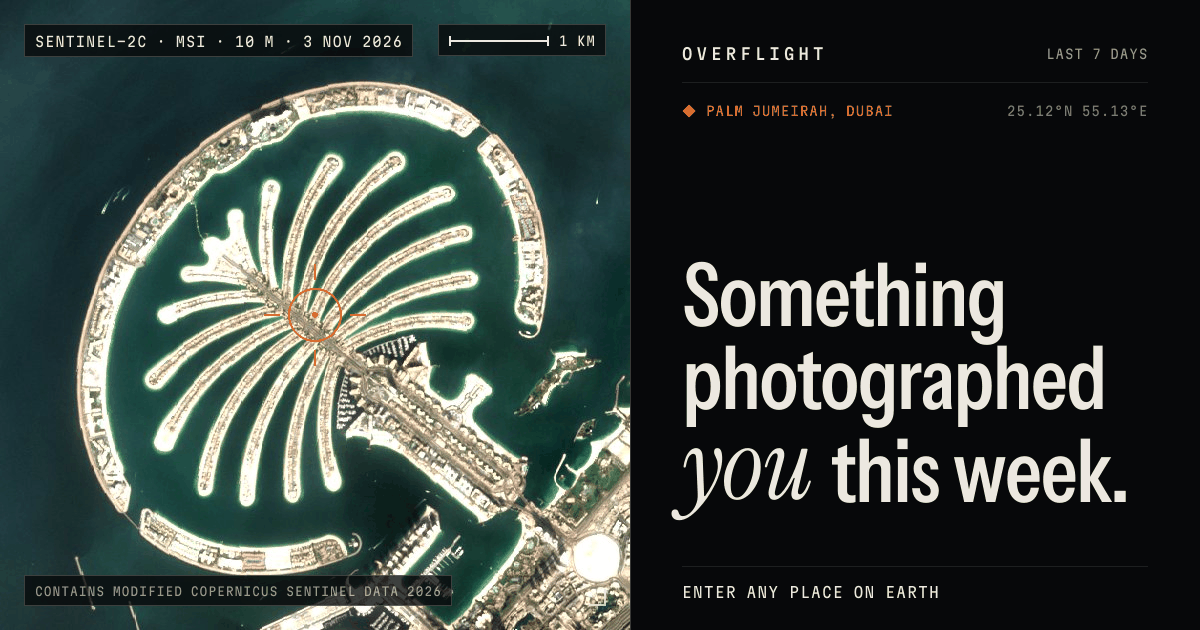
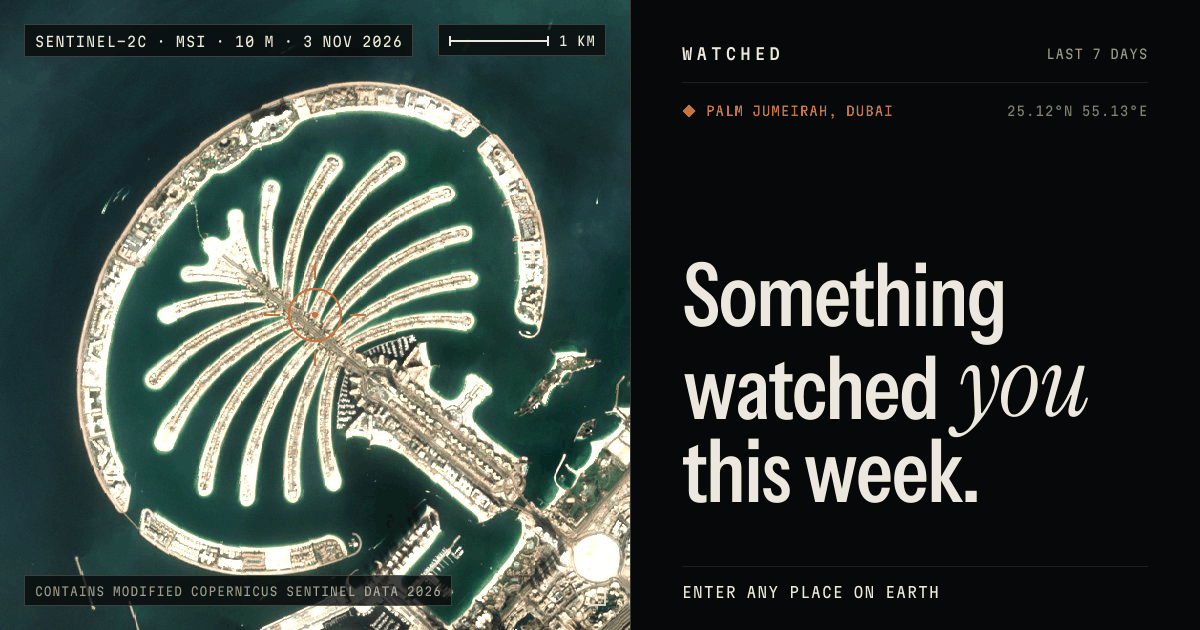
Rename to Watched; hero line 'Something watched you this week.'
Wordmark, tab title, OG/Twitter meta, share cards (client + server), share pages,
About page and the baked default link card now say Watched. The hero reflows to
Something / watched you / this week.

Claude-Session: https://claude.ai/code/session_01KrTLvrLgi3JcAaKraidkwF

Changed region(s): [[0.555, 0.5429, 0.9558, 0.8444], [0.555, 0.0603, 0.6783, 0.0905]]

diff --git a/index.html b/index.html
@@ -4,22 +4,22 @@
     <meta charset="UTF-8" />
     <meta name="viewport" content="width=device-width, initial-scale=1, viewport-fit=cover" />
     <meta name="theme-color" content="#07080A" />
-    <title>Overflight — what photographed you from orbit</title>
+    <title>Watched · Something watched you this week</title>
     <meta name="description" content="Enter any place on Earth. See every satellite that passed over it this week, and the actual pictures they took." />
     <meta property="og:type" content="website" />
-    <meta property="og:site_name" content="Overflight" />
-    <meta property="og:title" content="Something photographed you this week." />
+    <meta property="og:site_name" content="Watched" />
+    <meta property="og:title" content="Something watched you this week." />
     <meta property="og:description" content="Enter any place on Earth. See every satellite that passed over it this week, and the actual pictures they took." />
     <meta property="og:url" content="__SITE_ORIGIN__/" />
     <meta property="og:image" content="__SITE_ORIGIN__/og-default.png" />
     <meta property="og:image:width" content="1200" />
     <meta property="og:image:height" content="630" />
-    <meta property="og:image:alt" content="A real Sentinel-2 satellite photograph of Palm Jumeirah, Dubai, beside the line: Something photographed you this week. Enter any place on Earth." />
+    <meta property="og:image:alt" content="A real Sentinel-2 satellite photograph of Palm Jumeirah, Dubai, beside the line: Something watched you this week. Enter any place on Earth." />
     <meta name="twitter:card" content="summary_large_image" />
-    <meta name="twitter:title" content="Something photographed you this week." />
+    <meta name="twitter:title" content="Something watched you this week." />
     <meta name="twitter:description" content="Enter any place on Earth. See every satellite that passed over it this week, and the actual pictures they took." />
     <meta name="twitter:image" content="__SITE_ORIGIN__/og-default.png" />
-    <meta name="twitter:image:alt" content="A real Sentinel-2 satellite photograph of Palm Jumeirah, Dubai, beside the line: Something photographed you this week. Enter any place on Earth." />
+    <meta name="twitter:image:alt" content="A real Sentinel-2 satellite photograph of Palm Jumeirah, Dubai, beside the line: Something watched you this week. Enter any place on Earth." />
     <link rel="icon" href="/favicon.svg" type="image/svg+xml" />
     <link rel="preconnect" href="https://planetarycomputer.microsoft.com" crossorigin />
     <link rel="preconnect" href="https://photon.komoot.io" crossorigin />
@@ -172,10 +172,10 @@
         </div>
       </div>
       <div class="bs-bezel"><span class="bs-ruler bs-rl"></span><span class="bs-ruler bs-rr"></span><span class="bs-c bs-tl"></span><span class="bs-c bs-tr"></span><span class="bs-c bs-bl"></span><span class="bs-c bs-br"></span></div>
-      <div class="bs-mark"><span class="bs-word">Overflight</span><span class="bs-ver">v0.1</span></div>
+      <div class="bs-mark"><span class="bs-word">Watched</span><span class="bs-ver">v0.1</span></div>
     </div>
     <div id="root"></div>
-    <noscript><p style="position:relative;z-index:101;font-family:monospace;color:#ece8e0;background:#07080a;padding:24px">Overflight needs JavaScript and WebGL to compute satellite passes in your browser.</p></noscript>
+    <noscript><p style="position:relative;z-index:101;font-family:monospace;color:#ece8e0;background:#07080a;padding:24px">Watched needs JavaScript and WebGL to compute satellite passes in your browser.</p></noscript>
     <script type="module" src="/src/main.tsx"></script>
   </body>
 </html>

diff --git a/api/_lib/share.ts b/api/_lib/share.ts
@@ -292,7 +292,7 @@ export function summaryTitle(s: Pick<SummaryInput, 'satellites' | 'placeLabel'>)
 export function summaryDescription(s: Pick<SummaryInput, 'best' | 'counts' | 'placeLabel'>): string {
   const passes = s.counts.likely + s.counts.could + s.counts.overhead
   const best = s.best ? ` The clearest picture is from ${s.best.satName}.` : ''
-  return `${s.counts.imaged} real images and ${passes.toLocaleString('en-US')} more passes over ${s.placeLabel} in the last 7 days.${best} What photographed you this week?`
+  return `${s.counts.imaged} real images and ${passes.toLocaleString('en-US')} more passes over ${s.placeLabel} in the last 7 days.${best} What watched you this week?`
 }
 
 /** "What photographed Waterloo this week" */
@@ -301,7 +301,7 @@ export function placeTitle(p: SharedPlace): string {
 }
 
 export function placeDescription(p: SharedPlace): string {
-  return `Every satellite that passed over ${p.label} in the last 7 days, and the actual pictures they took. What photographed you this week?`
+  return `Every satellite that passed over ${p.label} in the last 7 days, and the actual pictures they took. What watched you this week?`
 }
 
 // ── Fetch ───────────────────────────────────────────────────────────────────────────────────
@@ -405,7 +405,7 @@ function localWhen(ms: number, timeZone: string): string {
  * og:description in the product voice (DESIGN §7), using only known numbers, ending on the
  * question that brings the reader in:
  * "Sentinel-2C crossed 795 km above Waterloo at 11:21 EST on Sun 1 Nov 2026, moving south.
- *  It was looking 5.3° off nadir. Cloud cover: 26%. What photographed you this week?"
+ *  It was looking 5.3° off nadir. Cloud cover: 26%. What watched you this week?"
  */
 export function description(s: ShareRecord): string {
   const sat = satLabel(s)
@@ -426,7 +426,7 @@ export function description(s: ShareRecord): string {
     else if (s.verdict === 'imaged' && pct !== undefined) parts.push(`Cloud cover: ${Math.round(pct)}%.`)
     if (s.verdict === 'likely') parts.push(`${s.placeLabel} was inside its swath.`)
   }
-  parts.push('What photographed you this week?')
+  parts.push('What watched you this week?')
   return parts.join(' ')
 }
 

diff --git a/api/_lib/api.test.ts b/api/_lib/api.test.ts
@@ -90,12 +90,12 @@ describe('copy', () => {
     const s = shareFromRpc(ROW)!
     expect(headline(s)).toBe('Sentinel-2C photographed Waterloo.')
     expect(description(s)).toBe(
-      'Sentinel-2C crossed 795 km above Waterloo at 11:21 EST on Sun 1 Nov 2026. It was looking 5.3° off nadir. Cloud cover: 26%. What photographed you this week?',
+      'Sentinel-2C crossed 795 km above Waterloo at 11:21 EST on Sun 1 Nov 2026. It was looking 5.3° off nadir. Cloud cover: 26%. What watched you this week?',
     )
     expect(headline({ ...s, verdict: 'could', satName: 'SkySat-C3' })).toBe('SkySat-C3 passed within view of Waterloo.')
     expect(headline({ ...s, satName: undefined })).toBe('NORAD 60989 photographed Waterloo.')
     expect(description({ ...s, verdict: 'could', satName: 'SkySat-C3', pass: { ...s.pass, headingDeg: 192 } })).toContain(
-      "SkySat-C3 passed within view of Waterloo at 11:21 EST on Sun 1 Nov 2026, moving south. It could have pointed here. Its operator doesn't say whether it did. What photographed you this week?",
+      "SkySat-C3 passed within view of Waterloo at 11:21 EST on Sun 1 Nov 2026, moving south. It could have pointed here. Its operator doesn't say whether it did. What watched you this week?",
     )
   })
 })
@@ -106,7 +106,7 @@ describe('card spec', () => {
     const spec = buildCardSpec(cardInputFromShare(s, 'overflight.app'))
     expect(spec.stamp).toBe('Sun 1 Nov 2026 · 11:21 EST')
     expect(spec.verdictLabel).toBe('Photographed')
-    expect(spec.footLeft).toBe('See what photographed you')
+    expect(spec.footLeft).toBe('See what watched you')
     expect(spec.plate.kind === 'image' && spec.plate.credit.segs[0].text).toBe('Contains modified Copernicus Sentinel data 2026')
     expect(spec.readouts.map((r) => `${r.label} ${r.value}${r.unit ? ` ${r.unit}` : ''}`)).toEqual(['Altitude 795 km', 'Off-nadir 5.3°', 'Pixel 10 m'])
     const cloudy = buildCardSpec(cardInputFromShare({ ...s, capture: { ...s.capture!, cloudCoverPct: 86 } }, ''))

diff --git a/src/ui/pages/AboutPage.tsx b/src/ui/pages/AboutPage.tsx
@@ -154,7 +154,7 @@ export function AboutPage({ onClose }: { onClose: () => void }) {
     <div ref={rootRef} className={s.overlay} role="dialog" aria-modal="true" aria-labelledby="about-title">
       <header className={s.bar} data-about-content>
         <span className={s.barLabel}>
-          Overflight <span className={s.dim}>/ About</span>
+          Watched <span className={s.dim}>/ About</span>
         </span>
         <button ref={closeRef} type="button" className={s.close} onClick={onClose} aria-label="Close" aria-keyshortcuts="Escape">
           <span className={s.closeText}>Close</span>
@@ -194,7 +194,7 @@ export function AboutPage({ onClose }: { onClose: () => void }) {
                 </Reveal>
               </h1>
               <Reveal as="p" className={s.lede} delay={500} duration={720}>
-                Overflight replays the last seven days of orbits over a single point on Earth, then asks the public archives for
+                Watched replays the last seven days of orbits over a single point on Earth, then asks the public archives for
                 the pictures. Every number is computed from public data, in your browser. Anything uncertain is labelled as such.
               </Reveal>
             </header>
@@ -293,7 +293,7 @@ export function AboutPage({ onClose }: { onClose: () => void }) {
 
             <footer className={s.footer}>
               <span>
-                Overflight <span className={s.ver}>{VERSION}</span>
+                Watched <span className={s.ver}>{VERSION}</span>
               </span>
               <span className={s.dim}>Built on public data. Nothing here is a picture we took.</span>
             </footer>

diff --git a/src/ui/share/spec.test.ts b/src/ui/share/spec.test.ts
@@ -93,7 +93,7 @@ describe('share card spec', () => {
     expect(client.lead).toMatch(/^\d+ satellites photographed$/)
     expect(client.readouts.map((r) => r.label)).toEqual(['Photo', 'Likely', 'Could', 'Overhead'])
     expect(summaryPostText({ placeLabel: 'Waterloo', satellites: 7, passes: 1800, best: { satName: 'Sentinel-2C', altitudeKm: 795 } })).toBe(
-      '7 satellites photographed Waterloo this week. The clearest one, Sentinel-2C, from 795 km up.\n\nSomething photographed you this week too.',
+      '7 satellites photographed Waterloo this week. The clearest one, Sentinel-2C, from 795 km up.\n\nSomething watched you this week too.',
     )
   })
 
@@ -102,7 +102,7 @@ describe('share card spec', () => {
     const s2 = report.passes.find((p) => p.captureId?.startsWith('S2C_MSIL2A_20261101'))!
     const spec = cardSpec(s2, report, metaFor(s2), 'America/Toronto', 'overflight.app')
     expect(spec.stamp).toBe(`${fmtLocalDay(s2.tClosest, 'America/Toronto')} 2026 · ${fmtLocalTime(s2.tClosest, 'America/Toronto')} EST`)
-    expect(spec.footLeft).toBe('See what photographed you')
+    expect(spec.footLeft).toBe('See what watched you')
     expect(spec.plate.kind).toBe('image')
     if (spec.plate.kind === 'image') {
       expect(spec.plate.credit.segs[0].text).toBe('Contains modified Copernicus Sentinel data 2026')

diff --git a/src/ui/share/links.test.ts b/src/ui/share/links.test.ts
@@ -19,7 +19,7 @@ describe('share links', () => {
     const base = { satName: 'Sentinel-2C', placeLabel: 'Waterloo', altitudeKm: 795.4, localDay: 'Sun 1 Nov', localTime: '11:21' }
     const t = postText({ ...base, verdict: 'imaged', resolution: '10 m' })
     expect(t).toBe(
-      'Sentinel-2C photographed Waterloo from 795 km up on Sun 1 Nov at 11:21 local. 10 m per pixel; this is the actual image.\n\nSomething photographed you this week too.',
+      'Sentinel-2C photographed Waterloo from 795 km up on Sun 1 Nov at 11:21 local. 10 m per pixel; this is the actual image.\n\nSomething watched you this week too.',
     )
     const c = postText({ ...base, verdict: 'could', satName: 'WorldView Legion 4', altitudeKm: 520, localDay: 'Sat 31 Oct', localTime: '10:52' })
     expect(c).toBe(
@@ -34,7 +34,7 @@ describe('share links', () => {
         expect(p.length).toBeLessThanOrEqual(POST_MAX)
         expect(p.length + 1 + 23).toBeLessThanOrEqual(280)
       }
-      expect(postText({ ...base, verdict })).toMatch(/\n\n(Something photographed you this week too\.|What passed over you this week\?)$/)
+      expect(postText({ ...base, verdict })).toMatch(/\n\n(Something watched you this week too\.|What passed over you this week\?)$/)
     }
   })
   it('encodes the X intent', () => {

diff --git a/api/_lib/card.ts b/api/_lib/card.ts
@@ -69,9 +69,9 @@ function mono(text: string, size: number, color: string, style: CSSProperties = 
   )
 }
 
-/** OVERFLIGHT, +0.26em, weight 500: the HUD wordmark, the one lockup everywhere. */
+/** WATCHED, +0.26em, weight 500: the HUD wordmark, the one lockup everywhere. */
 function lockup(): ReactElement {
-  return mono('Overflight', CARD_FS.lockup, C.bone, { fontWeight: 500, letterSpacing: CARD_FS.lockup * TRACK.lockup })
+  return mono('Watched', CARD_FS.lockup, C.bone, { fontWeight: 500, letterSpacing: CARD_FS.lockup * TRACK.lockup })
 }
 
 const abs = (style: CSSProperties, ...children: (Child | Child[])[]) => box({ position: 'absolute', ...style }, ...children)
@@ -336,7 +336,7 @@ function heroLines(size: number): ReactElement {
       s,
     )
   const line = (...words: ReactElement[]) => box({ alignItems: 'baseline', gap: size * 0.2, flexWrap: 'nowrap' }, ...words)
-  return box({ flexDirection: 'column', width: '100%' }, line(w('Something')), line(w('photographed')), line(w('you', true), w('this week.')))
+  return box({ flexDirection: 'column', width: '100%' }, line(w('Something')), line(w('watched'), w('you', true)), line(w('this week.')))
 }
 
 /** The homepage card: a real photograph on the left, the hero line on the right. */

diff --git a/api/_lib/cardSpec.ts b/api/_lib/cardSpec.ts
@@ -235,10 +235,10 @@ export const VERDICT_WORDS: Record<Verdict, { title: string; verb: string }> = {
   overhead: { title: 'Passed overhead', verb: 'passed over' },
 }
 
-export const FOOT_LEFT = 'See what photographed you'
+export const FOOT_LEFT = 'See what watched you'
 /** og:image:alt for the default (root link) card: index.html uses the same words (core K9). */
 export const DEFAULT_CARD_ALT =
-  'A real Sentinel-2 satellite photograph of Palm Jumeirah, Dubai, beside the line: Something photographed you this week. Enter any place on Earth.'
+  'A real Sentinel-2 satellite photograph of Palm Jumeirah, Dubai, beside the line: Something watched you this week. Enter any place on Earth.'
 export const CLOUDED_LINE = 'Clouded over. It saw only cloud.'
 /** Scene cloud cover at or above which the card calls the picture clouded (as results' isClouded). */
 export const CLOUDED_PCT = 70

diff --git a/api/_lib/html.ts b/api/_lib/html.ts
@@ -45,7 +45,7 @@ export function sharePageHtml(m: SharePageMeta): string {
 <meta name="theme-color" content="#07080A">
 <meta name="robots" content="noindex, follow">
 <meta property="og:type" content="website">
-<meta property="og:site_name" content="Overflight">
+<meta property="og:site_name" content="Watched">
 <meta property="og:title" content="${t}">
 <meta property="og:description" content="${d}">
 <meta property="og:url" content="${esc(m.canonical)}">
@@ -68,7 +68,7 @@ a{color:#FF6A1A;text-decoration:none}
 </style>
 </head>
 <body>
-<p>Opening <a href="${href}">Overflight</a></p>
+<p>Opening <a href="${href}">Watched</a></p>
 <script>location.replace(${jsonForScript(m.redirect)})</script>
 </body>
 </html>

diff --git a/src/ui/hud/Hud.tsx b/src/ui/hud/Hud.tsx
@@ -114,9 +114,9 @@ function HudImpl({ onAbout }: { onAbout?: () => void }) {
     <div ref={rootRef} className={s.hud} data-scene={scene}>
       <Bezel />
 
-      <CornerReadout corner="tl" label="Overflight" ref={topLeft}>
+      <CornerReadout corner="tl" label="Watched" ref={topLeft}>
         <Reveal axis="x" duration={480} as="div" className={s.line}>
-          <span className={s.wordmark}>Overflight</span>
+          <span className={s.wordmark}>Watched</span>
           <span className={s.version}>{VERSION}</span>
         </Reveal>
         {onAbout ? (

diff --git a/src/ui/share/card.ts b/src/ui/share/card.ts
@@ -383,7 +383,7 @@ export async function renderCardPng(spec: CardSpec): Promise<Blob> {
   // ── the panel ──
   const X = PANEL.x
   const R = PANEL.right
-  rowText(ctx, 'Overflight', X, PANEL.top, C.bone, monoFace(CARD_FS.lockup, CARD_FS.lockup * TRACK.lockup, 500))
+  rowText(ctx, 'Watched', X, PANEL.top, C.bone, monoFace(CARD_FS.lockup, CARD_FS.lockup * TRACK.lockup, 500))
   if (spec.stamp) rowText(ctx, spec.stamp, R, PANEL.top, C.bone2, monoFace(CARD_FS.row), 'right')
   ctx.fillStyle = C.line
   ctx.fillRect(X, PANEL.rule1, PANEL.w, 1)

diff --git a/src/ui/landing/Landing.tsx b/src/ui/landing/Landing.tsx
@@ -223,10 +223,10 @@ function LandingImpl({ onSubmit: onSubmitProp, enterDelay = 0 }: LandingProps) {
               Something
             </Reveal>
             <Reveal as="span" className={s.hl} delay={delay + 200} skip={!first}>
-              photographed
+              watched <em className={s.serif}>you</em>
             </Reveal>
             <Reveal as="span" className={s.hl} delay={delay + 260} skip={!first}>
-              <em className={s.serif}>you</em> this week.
+              this week.
             </Reveal>
           </h1>
 
